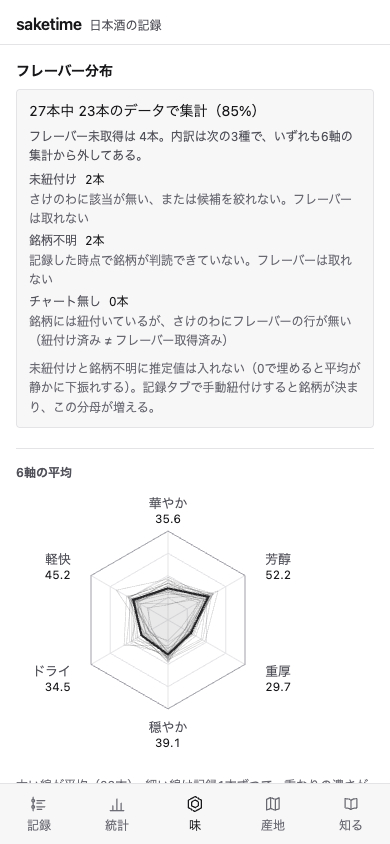
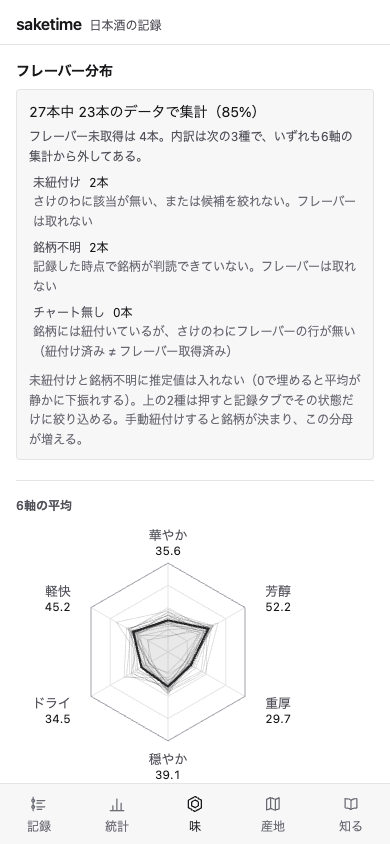
B59: 味・統計の器が変わったので証拠のスクショを撮り直す

diff --git a/docs/BACKLOG.md b/docs/BACKLOG.md
@@ -298,7 +298,7 @@
 | B56 | improve | **「知る」タブの法令表は国税庁ページの手写しで、改正に追随する仕組みが無い。** 特定名称8種の要件（原料・精米歩合・こうじ米使用割合）と原酒の定義は人が読んで書いたリテラルで、上流が改正されても**アプリ側は何も気づかない**（純米酒の精米歩合が `−` になっているのは、まさに過去の改正で要件が削除された結果）。現在の唯一の対策は**取得日を画面に出すこと**（`2026-07-26`）で、読み手が古さを判断できる状態までしか作っていない。自動追随は簡単ではない: 国税庁のページは **Shift_JIS かつ HTML 構造依存**で、`fetch:sakenowa` のような安定した JSON API が無く、構造が変わると黙って空を取る（それは「改正が無かった」と区別できない）。→ 判断が必要: (a) 年1回の見直しを運用として決め、取得日と見直し日を doc に持つ (b) 取得スクリプトを作り**差分が出たら赤にする**（構造変更でも赤になるので、赤 = 人が読む合図と割り切る） (c) 現状（取得日の表示のみ）を仕様として受け入れ、限界を「知る」タブ自身に書く（**現状は (c) に近い**が、見直しの周期を決めていない）                                                                                                                                                                                                                                                                                                                                                                                                                                                                                                                                                                                                                                                                                                                                                                                                                                                                                                                                                                                                                          | med  | open     | 「知る」タブの実装                       |
 | B57 | improve | **味タグは上流が銘柄あたり20語で打ち切っている（20語ちょうどが731銘柄 = 34%）。** 同梱の `brandFlavorTags` は 2,136銘柄で、**最大タグ数が 20 に張り付いている**ため、20語の銘柄は「21語目以降が無い」のか「切られた」のか区別できない。したがって**タグの不在は味の不在を意味しない**。画面では明示している（「知る」の味タグ節と、絞り込みの分母「タグを引けた N本 / 全 M本」）が、**影響量は測っていない** — 「タグで絞ると本来該当する記録を何本取りこぼすか」は上流の全語が無いので原理的に測れず、代理指標（20語ちょうどの銘柄が自分の記録に何本あるか）すら数えていない。→ 判断が必要: (a) 代理指標を1つ出す（自分の記録のうち20語ちょうどの銘柄の本数）ことで「取りこぼしが起こり得る範囲」を件数で言う (b) 現状（性質の明示のみ）を受け入れる。**「知る」の数値（141語 / 2,136銘柄 / 731件34% / 19語16件 / 上位5語51-59%）はリテラル**なので、`npm run fetch:sakenowa` でデータを取り直すと**ドリフトする**（画面には「同梱データ（2026-07 取得）を数えたもので、取り直すと変わる」と書いてある。恒久策には Learn への props か domain 側の集計関数が要る）                                                                                                                                                                                                                                                                                                                                                                                                                                                                                                                                                                                                                                                                                                                                                                                                                                                                                                                                **[done 2026-11-21。(a) を採った]** 絞り込みの注記に「タグを引けた N本のうち M本が上限に達した銘柄で、語で絞るとこの中から取りこぼしうる」を足した(`FlavorTagFacet.atCapCount`。上限との比較は語彙で引けた名前ではなく上流の行の長さで行う)。「知る」の数値のドリフトは B64 で 2% の幅のテストが見ている | med  | done     | 味タグ実装                               |
 | B58 | improve | **`scripts/check-attribution.mjs` は文字列の存在しか証明しない。** バンドルに needle があることは「クレジットが**画面に描かれる**」ことを意味しない（tree-shaking は使われている定数を残すだけで、描画しないコンポーネントが持つ文字列も成果物に残り得る）。**この分担を維持すること**: 文字列の有無 = `check-attribution.mjs` / 描画 = 単体テスト（`Attribution.test.tsx` がフッタ1行、`AreaMap.test.tsx` が産地タブの CC-BY 4項目、`Learn.test.tsx` が「知る」の4項目、`App.test.tsx` が**5タブすべてでさけのわの1行が出ること**）。この分担が崩れていた実例が2つある: (1) **CC-BY の併記が CI で無検査だった** — `AreaMap.test.tsx` に `MapCredit` の assert が1つも無く、`<MapCredit />` を消しても `attribution:check` は緑（needle は Learn 側で残る）。落ちるのは実 seed 依存で **CI では skip される** `screens.test.tsx` だけだった → `AreaMap.test.tsx` に4項目の assert を追加して塞いだ (2) **needle が短いと第三者コードで偽陽性になる** — `Map of Japan` 単体はベンダーコードにも現れるので、タイトルと作者を1本のリンクにまとめた**単一リテラル**に変えた。あわせて検査器が実行時に**自己検査**（クレジット無しの合成バンドルで needle が満たされないこと）を報告する。→ **新しいクレジットを増やすときは、needle と描画テストの両方を同時に足す**（片方だけだと無検査で緑になる）。**2026-08-23 に記録として閉じた。** これは作業ではなく**作法**で、中身は「クレジットを増やすときは needle と描画テストの両方を同時に足す」の1行に尽きる。その1行は `CLAUDE.md` のクレジットの節に既に入っており(「文字列の有無は `attribution:check`、描画は単体テストが担う分担を崩さない(増やすときは両方に足す)」)、**着手前に必ず読む場所**にある。この行を open のまま置くと「まだ何か作業が残っている」と読めてしまうので閉じる。**機械強制はしない** — 「この needle に対応する描画テストが在るか」を自動で判定しようとすると文字列の grep 一致に頼ることになり、**通っても描画の証拠にならない**(この課題が問題にしている失敗と同型のものを、検査器の側にもう1つ作ることになる) | med  | 記録 | 検証で発見（CC-BY の併記が CI で無検査） |
-| B59 | improve | **`docs/evidence/` のスクショの撮り直しは済んだが、`ledger:check` の allowlist が「名前だけ」を守る限界は変わらない。** 2026-07-26 に **5タブ × 390/1280 の10枚を上書き**し、フッタ1行の証拠 `demo-footer-390.png` を新設した（追跡は allowlist **14枚** = `.gitignore` の `!` 行と一致。本番ビルドを `vite preview` で配信し、取り込みも本番と同じ2段を通した）。**それ以前の8枚は「4タブ + フッタ3段落」の画面で、器が変わった時点で証拠として誤りになっていた** — つまり**画面を変えたらスクショが黙って嘘になる**のに、それを検出する仕組みは無い（B24 の allowlist は**ファイル名**しか見ないので、中身が古いままでも CI は緑）。→ 現状の対策は「撮り直したら1枚ずつ目視し、`docs/evidence/README.md` の履歴節に何を撮り直したか書く」という運用だけ。判断が必要: (a) UI の器（タブ数・フッタ）を変える変更のチェックリストにスクショ撮り直しを入れる (b) 現状の運用を受け入れて限界を README に書く（**現状は (b)**）。**関連: B16 の 1280px の体裁判断は 5タブのスクショで可能になった**（4タブ時代の材料は無効）。**2026-07-27 に「知る」の構造化で3枚（`demo-learn-390` / `-1280` / `demo-footer-390`）をまた撮り直した** — 器を変えたら撮り直す運用は今回も人が思い出して実行しただけで、**仕組みは増えていない**（limitation は変わらず）                                                                                                                                                                                                                                                                                                                                                                                                                                                                                                                                                                                                                                                                                                                                               | med  | open     | docs 更新時の点検                        |
+| B59 | improve | **`docs/evidence/` のスクショの撮り直しは済んだが、`ledger:check` の allowlist が「名前だけ」を守る限界は変わらない。** 2026-07-26 に **5タブ × 390/1280 の10枚を上書き**し、フッタ1行の証拠 `demo-footer-390.png` を新設した（追跡は allowlist **14枚** = `.gitignore` の `!` 行と一致。本番ビルドを `vite preview` で配信し、取り込みも本番と同じ2段を通した）。**それ以前の8枚は「4タブ + フッタ3段落」の画面で、器が変わった時点で証拠として誤りになっていた** — つまり**画面を変えたらスクショが黙って嘘になる**のに、それを検出する仕組みは無い（B24 の allowlist は**ファイル名**しか見ないので、中身が古いままでも CI は緑）。→ 現状の対策は「撮り直したら1枚ずつ目視し、`docs/evidence/README.md` の履歴節に何を撮り直したか書く」という運用だけ。判断が必要: (a) UI の器（タブ数・フッタ）を変える変更のチェックリストにスクショ撮り直しを入れる (b) 現状の運用を受け入れて限界を README に書く（**現状は (b)**）。**関連: B16 の 1280px の体裁判断は 5タブのスクショで可能になった**（4タブ時代の材料は無効）。**2026-07-27 に「知る」の構造化で3枚（`demo-learn-390` / `-1280` / `demo-footer-390`）をまた撮り直した** — 器を変えたら撮り直す運用は今回も人が思い出して実行しただけで、**仕組みは増えていない**（limitation は変わらず）                                                                                                                                                                                                                                                                                                                                                                                                                                                                                                                                                                                                                                                                                                                                               **2026-11-21 に B123/B124/B126 で味・統計の器が変わったので4枚を撮り直し・2枚を新設した**（追跡 allowlist は2枚増。これも人が思い出して実行しただけで仕組みは同じ） | med  | open     | docs 更新時の点検                        |
 | B60 | improve | **[done 2026-07-27]** **フッタの「出典とライセンス」を押すと「知る」の*先頭*に着き、出典節までは送らない。** 押したラベルの行き先（出典とライセンス節）は「知る」の **3,448px 下**にあり、着いた画面に見えているのは冒頭（数え方の節）。タブ切替で `main.scrollTop = 0` に戻す修正（`src/ui/AppShell/AppShell.tsx`）は入れたので**前のタブの位置を引きずる不具合は解消**したが、**目的の節まで送る導線は無い**。直すには (a) `Learn` に節を指定する props を渡す (b) 見出しに `id` を付けて `scrollIntoView` する のいずれかが要り、**`Learn` が props を取らない契約**（記録に依存しない = 純粋な読み物）と **URL ルーティングを持たない方針**に触るので保留した。**2026-07-27 に緩和した（解決ではない）**: 「知る」の先頭に目次を置いたので、着いた画面の1画面目に「4 出典とライセンス」が見えて**1タップで送れる**（実測 `main.scrollTop` 0 → 4,409px）。節へ送る仕掛け（`sectionDomId` + `scrollIntoView` + フォーカス移動）も入ったので、残るのは**フッタのボタンから節を指定する経路**だけ = `Learn` に props を渡すか（SPEC の「props を取らない」に触る）、`AppShell` から DOM の id を引くか（層をまたぐ）の判断。**あわせて検査の穴**: `scrollTop` は **jsdom では no-op** なので、「タブを切り替えると先頭に戻る」を守るテストが1本も無い（実ブラウザ計測が唯一の証拠。`scrollTo()` は jsdom が "Not implemented" を投げて既存29件を落とすため代入にしてある）。**2026-07-27(2) に close した**: 「知る」を下位タブに割ったことで「スクロールすれば読める」が成り立たなくなったため、`Learn` が `initialPanel` を受け取る形にして**出典タブを開いた状態で着く**ようにした（`App` が `key` を進めて作り直すので、既に「知る」を開いていても効く）。SPEC の「props を取らない」は「記録に依存しない」に改めた（記録非依存という本来の意図は保つ）。`App.test.tsx` が「フッタのボタン → 出典タブが `selected`」を固定する。**検査の穴（`scrollTop` が jsdom で no-op）は残る**                                                                                                            | med  | done     | 実ブラウザ検証                           |
 | B61 | bug     | **`src/integration/screens.test.tsx:375`（産地タブの `Victor Cazanave`）が一度だけ2回連続で落ち、その後 27回連続で緑。原因未特定。** 同じ run の中で「知る」タブ側（:392）の同一 assert は通っていたので `MapCredit` の欠落では説明できず、順序/タイミング由来のフレークの疑い。**検証者が同じ箇所を `<MapCredit />` の除去で意図的に赤にした run と失敗の様相が一致する**ので取り違えの疑いが濃い（断定はできない）。影響は下がっている: 同じ併記を **CI で必ず走る `AreaMap.test.tsx`** が持つようになったため（B58）、この1ファイルが seed 依存で skip されても CC-BY の併記は守られる。→ 再現したら記録する。再現しないうちは追わない                                                                                                                                                                                                                                                                                                                                                                                                                                                                                                                                                                                                                                                                                                                                                                                                                                                                                                                                                                                                                                                                                                                                                                                                                                                                                                                                                          | low  | open     | 実ブラウザ/テスト検証                    |
 | B62 | improve | **[done 2026-08-09。(a) 書き込み側でも正規化する を採った。ただし移行はしない]** **欠損県の表現が DB では `''`、表示では `null` に畳んでいる。** `SakeRecord.prefecture` の型は `string \| null` だが記録は県未記入を空文字で持つため `value ?? '県なし'` が発火せず、絞り込みに**ラベルが空のピル**が出ていた。→ 読み境界（`normalizePrefecture` / `NO_PREFECTURE_LABEL`）で畳む手当ては入れてあったが、**書き込み側が素通しで `''` が増え続けた**。→ `createRecord` / `updateRecord` / `toDomainRecord` で畳む（**後者が要点** — 取り込みも同期もここを通る）。**既存の行は書き換えない**（全件の更新時刻を動かすと同期で別端末の編集を倒す）ので `''` は残り、読む側は今後も `normalizePrefecture` を通す（型コメントに明記） | med | done | Phase6 |

diff --git a/docs/evidence/README.md b/docs/evidence/README.md
@@ -118,6 +118,19 @@ npm run dev -- --port 5178 --strictPort
 「すべて消す」ボタンの枠は `#f43f5e` で**自分の面の上で 3.34**(直す前は 2.18)。
 横あふれ 0 / console の error・warning 0件も同じ run で確認した。
 
+### 2026-11-21: 味タブに2節・統計タブに年の振り返りを足し、4枚を撮り直し・2枚を足した
+
+B123(評価との重なり)/ B124(次に飲む候補)/ B126(年の振り返り)で**2画面の器が変わった**ので、
+`demo-stats-390` / `-1280` / `demo-flavor-390` / `-1280` を撮り直し、
+**`demo-flavor-rating-390.png`(評価との重なり)と `demo-flavor-next-390.png`(次に飲む候補)を新設**した
+(どちらも味タブの下のほうにあり、ビューポート撮りの既定位置では写らないため、節の見出しまで送って撮った)。
+
+本番ビルドを `vite preview --port 5179` で配信し、**その origin の `sake-record` を消してから**
+`demo-backup.json` を本番と同じ2段で取り込んだ(記録 27件 / 紐付け 2件 / メモ 0件)。
+同じ run で横あふれ 0px(4枚とも)/ console の error・warning 0件。6枚を1枚ずつ目で見て、
+写っている日付は 2017〜2019 年の合成値・店名は `デモ…` だけであることを確認した。
+次に飲む候補に出る銘柄名はさけのわのマスタ(公開データ)で、台帳の行ではない。
+
 ### 2026-07-27(5): タブを読む人の関心で割り直し、産地に土地の話を入れた
 
 **利用者の指摘**（「数え方」というタブが何の話か分からない / 産地は特徴を書くべき /
